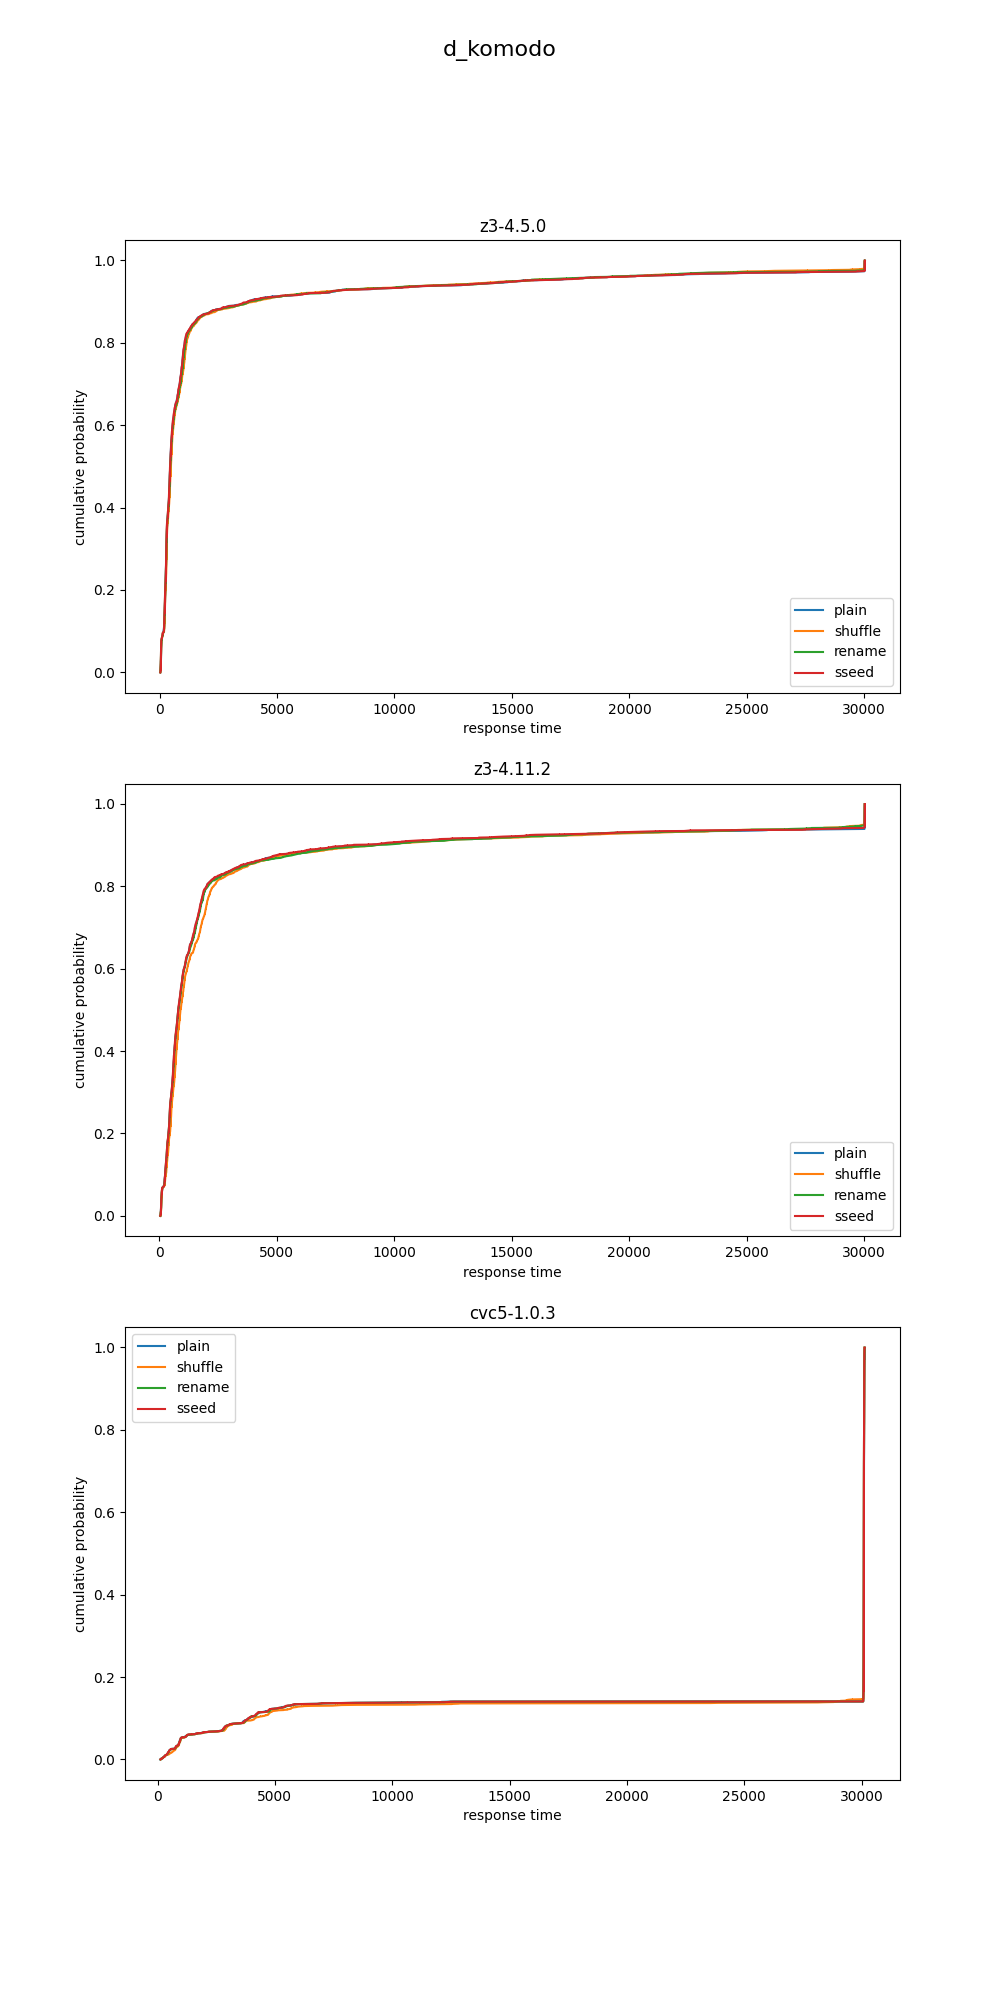
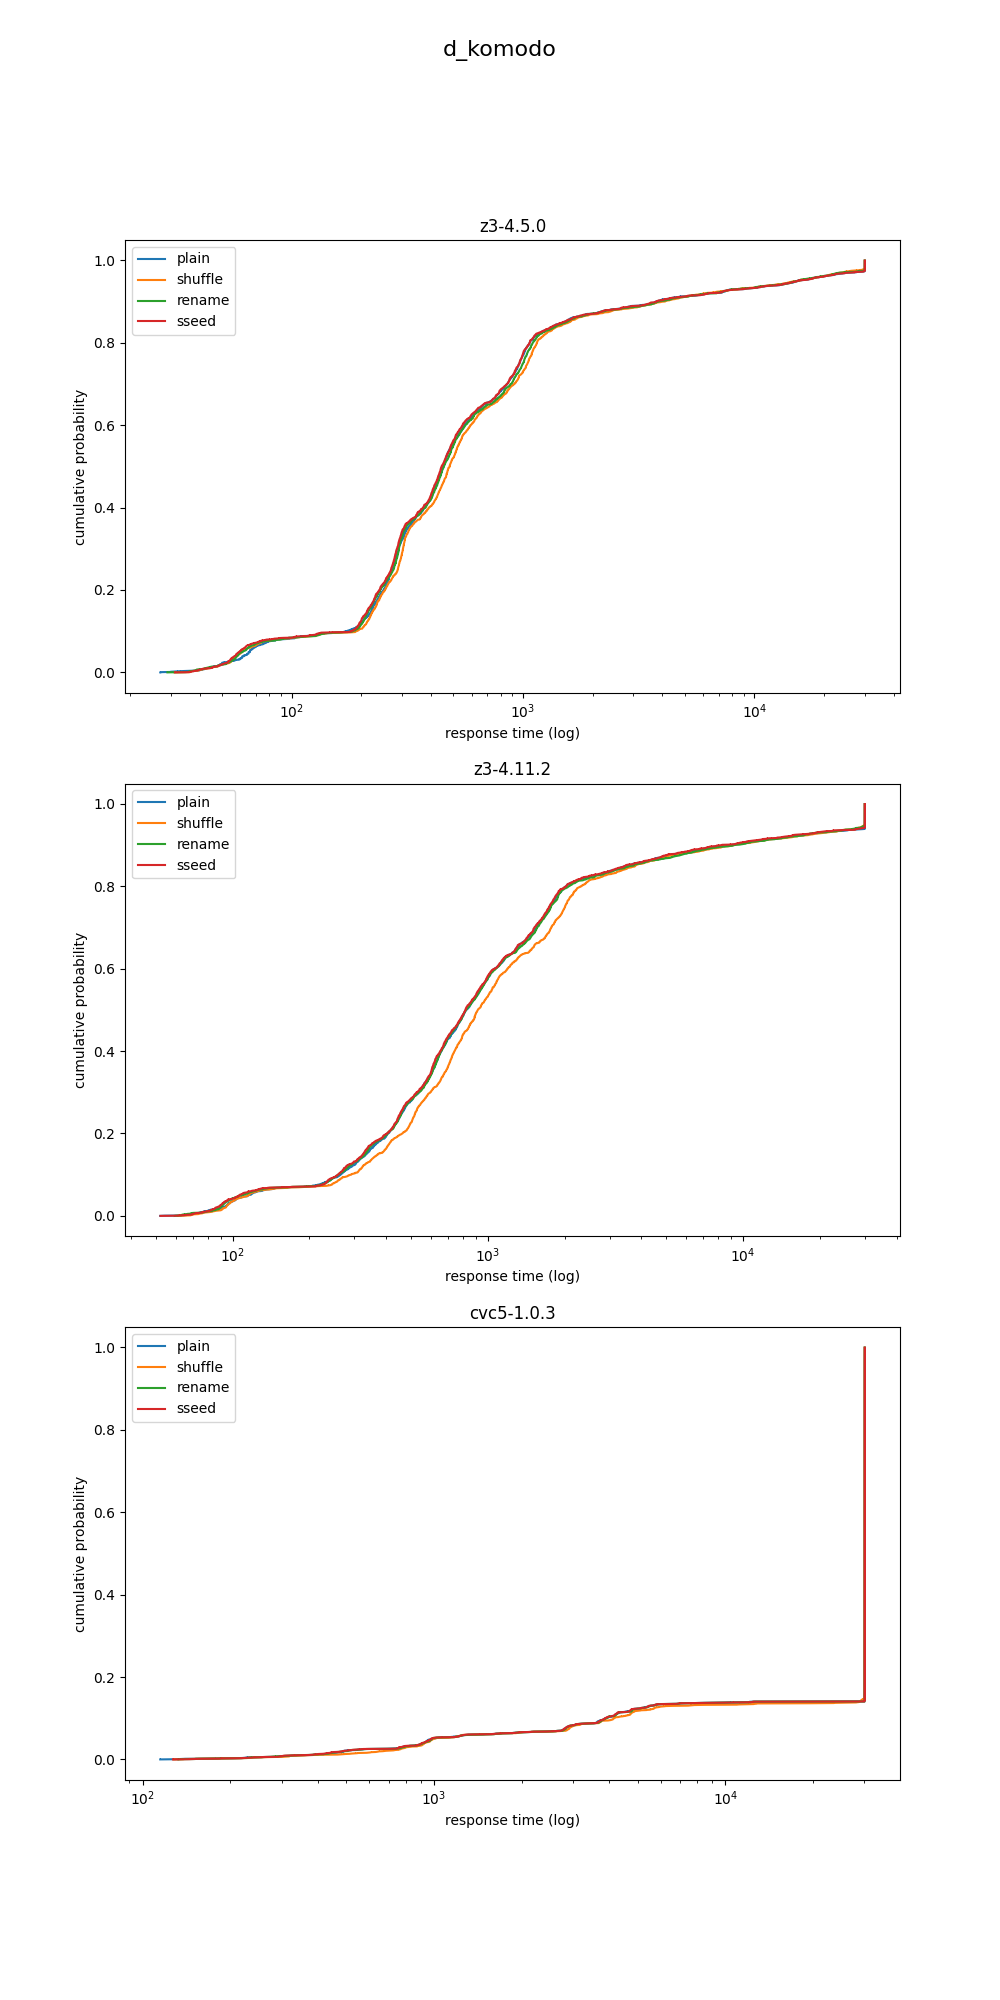
update to log scale

diff --git a/scripts/plot_utils.py b/scripts/plot_utils.py
@@ -27,7 +27,8 @@ def plot_time_cdfs(sp, dists, sname):
     for label, dist in dists.items():
         plot_cdf(sp, dist, label)
     sp.set_ylabel("cumulative probability")
-    sp.set_xlabel("response time")
+    sp.set_xlabel("response time (log)")
+    sp.set_xscale("log")
     sp.legend()
 
 def save_project_time_cdfs(pname):
